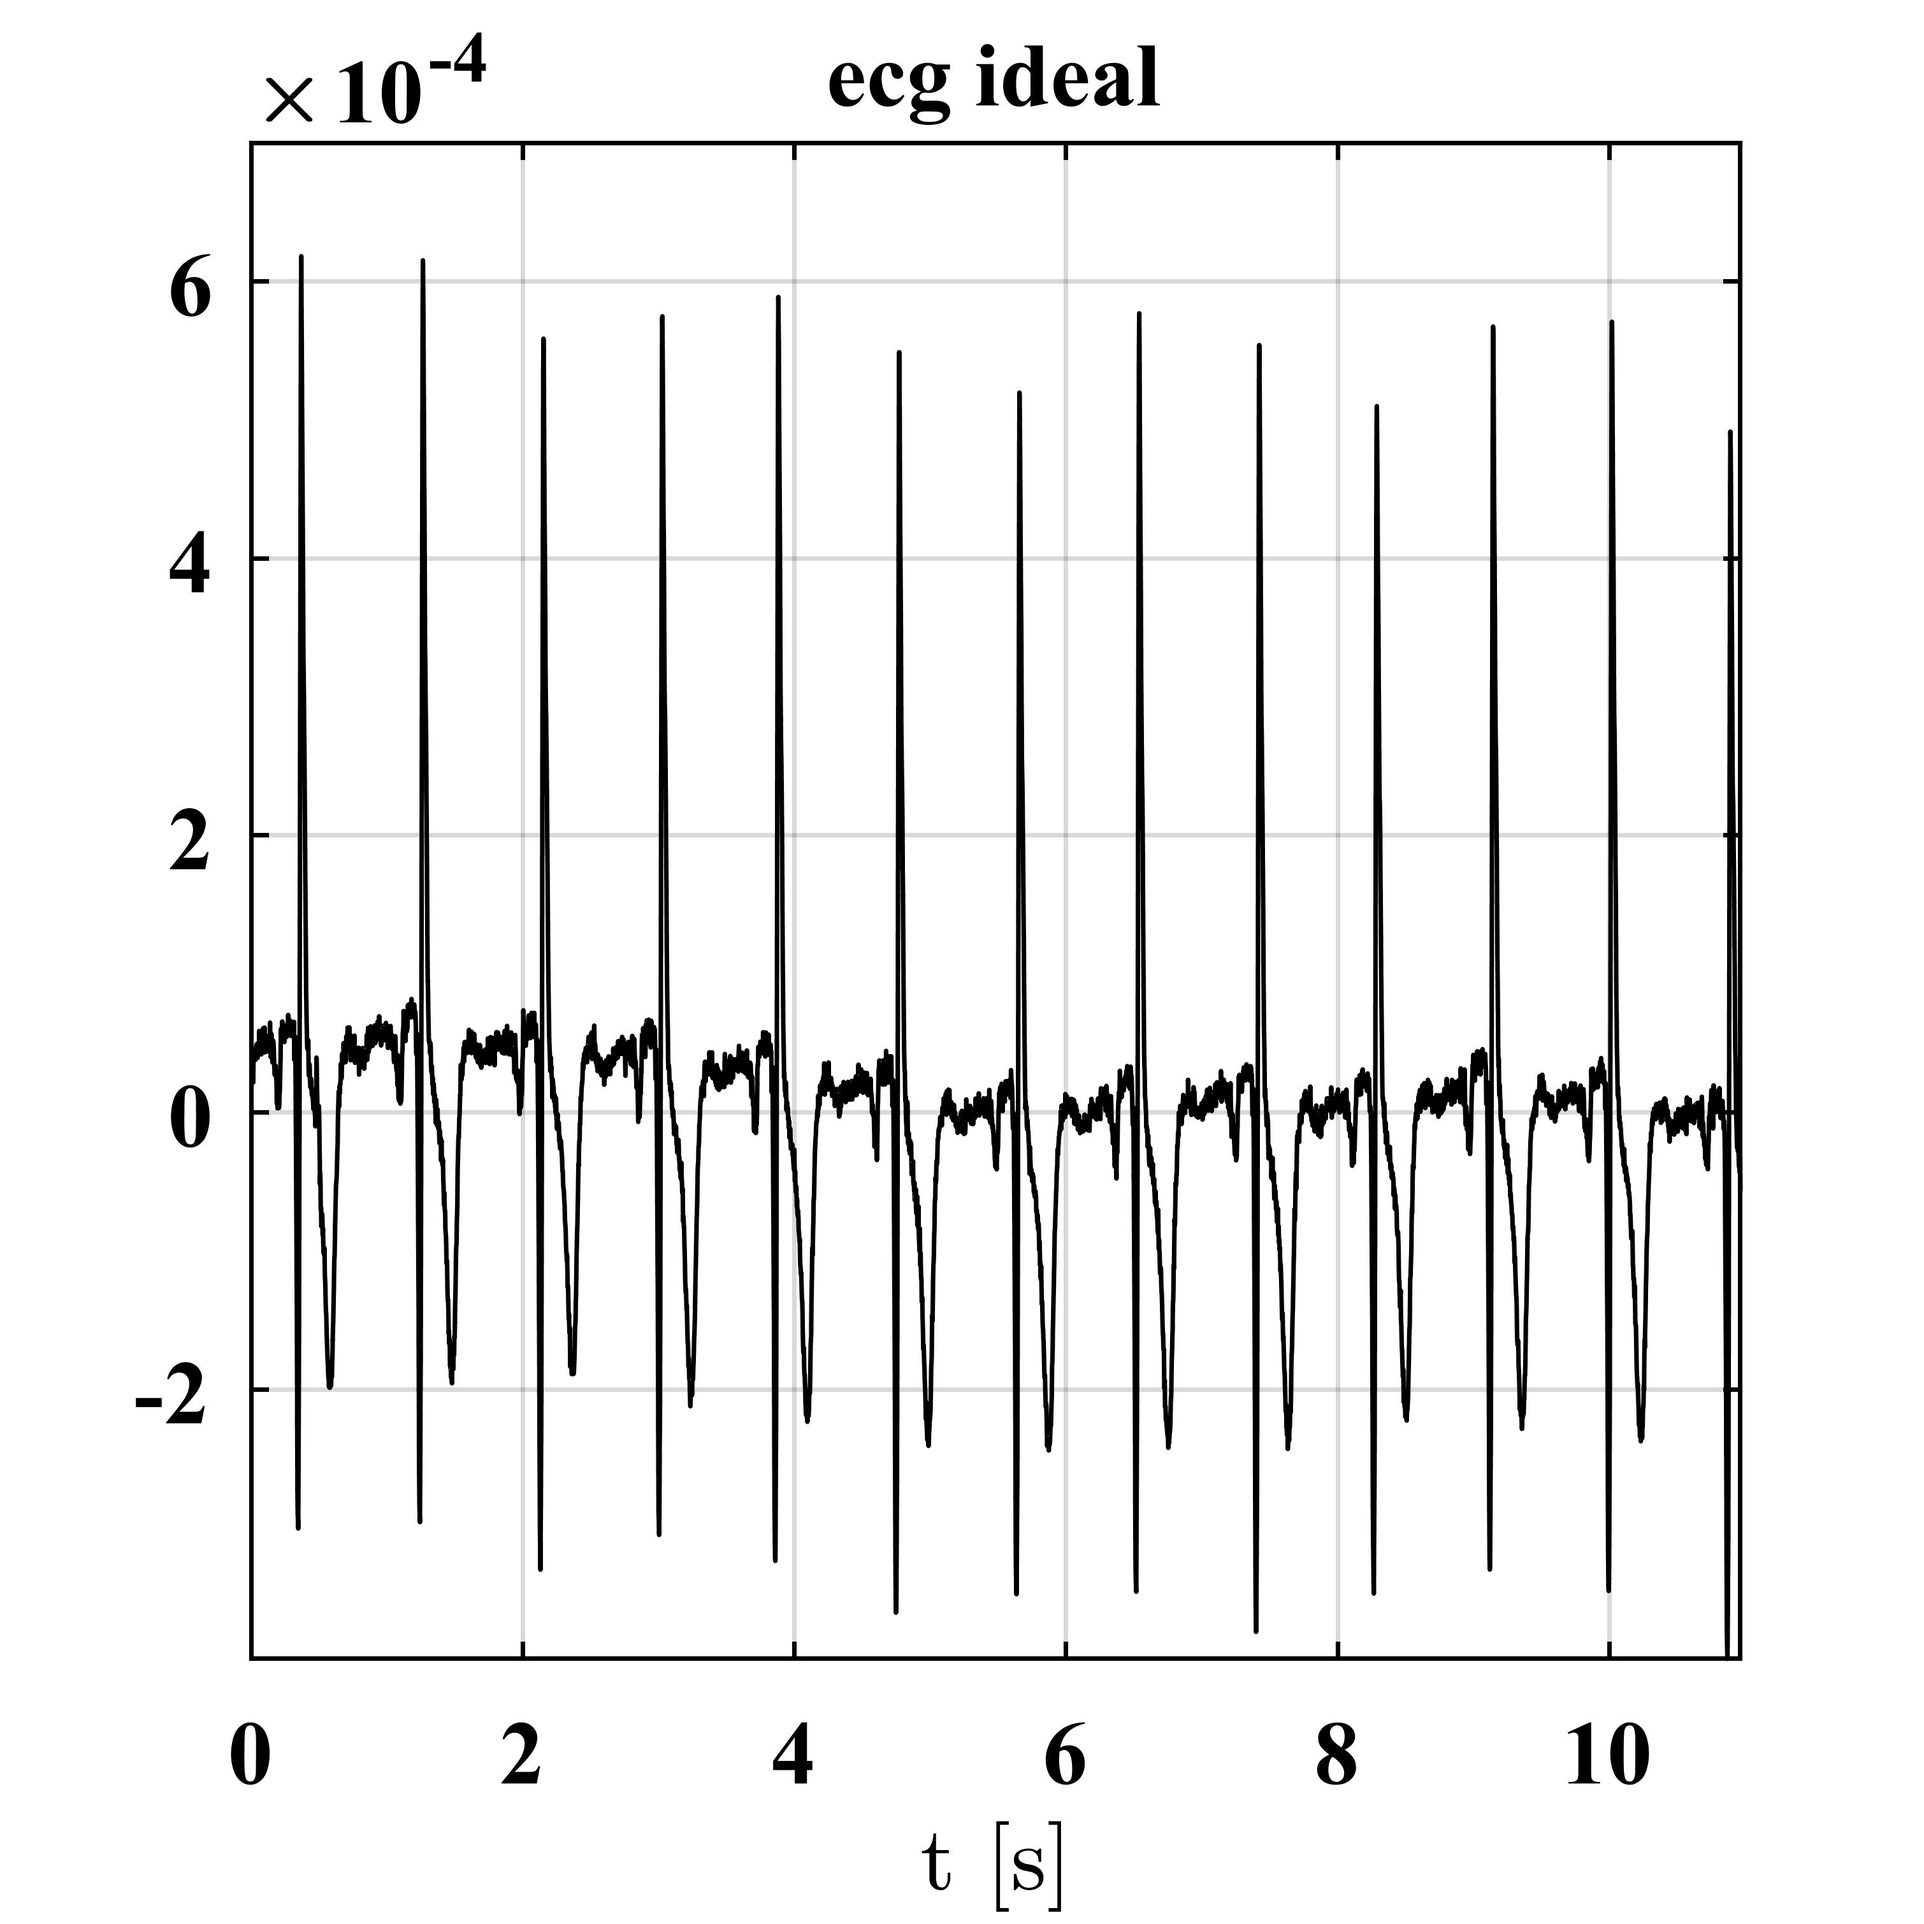
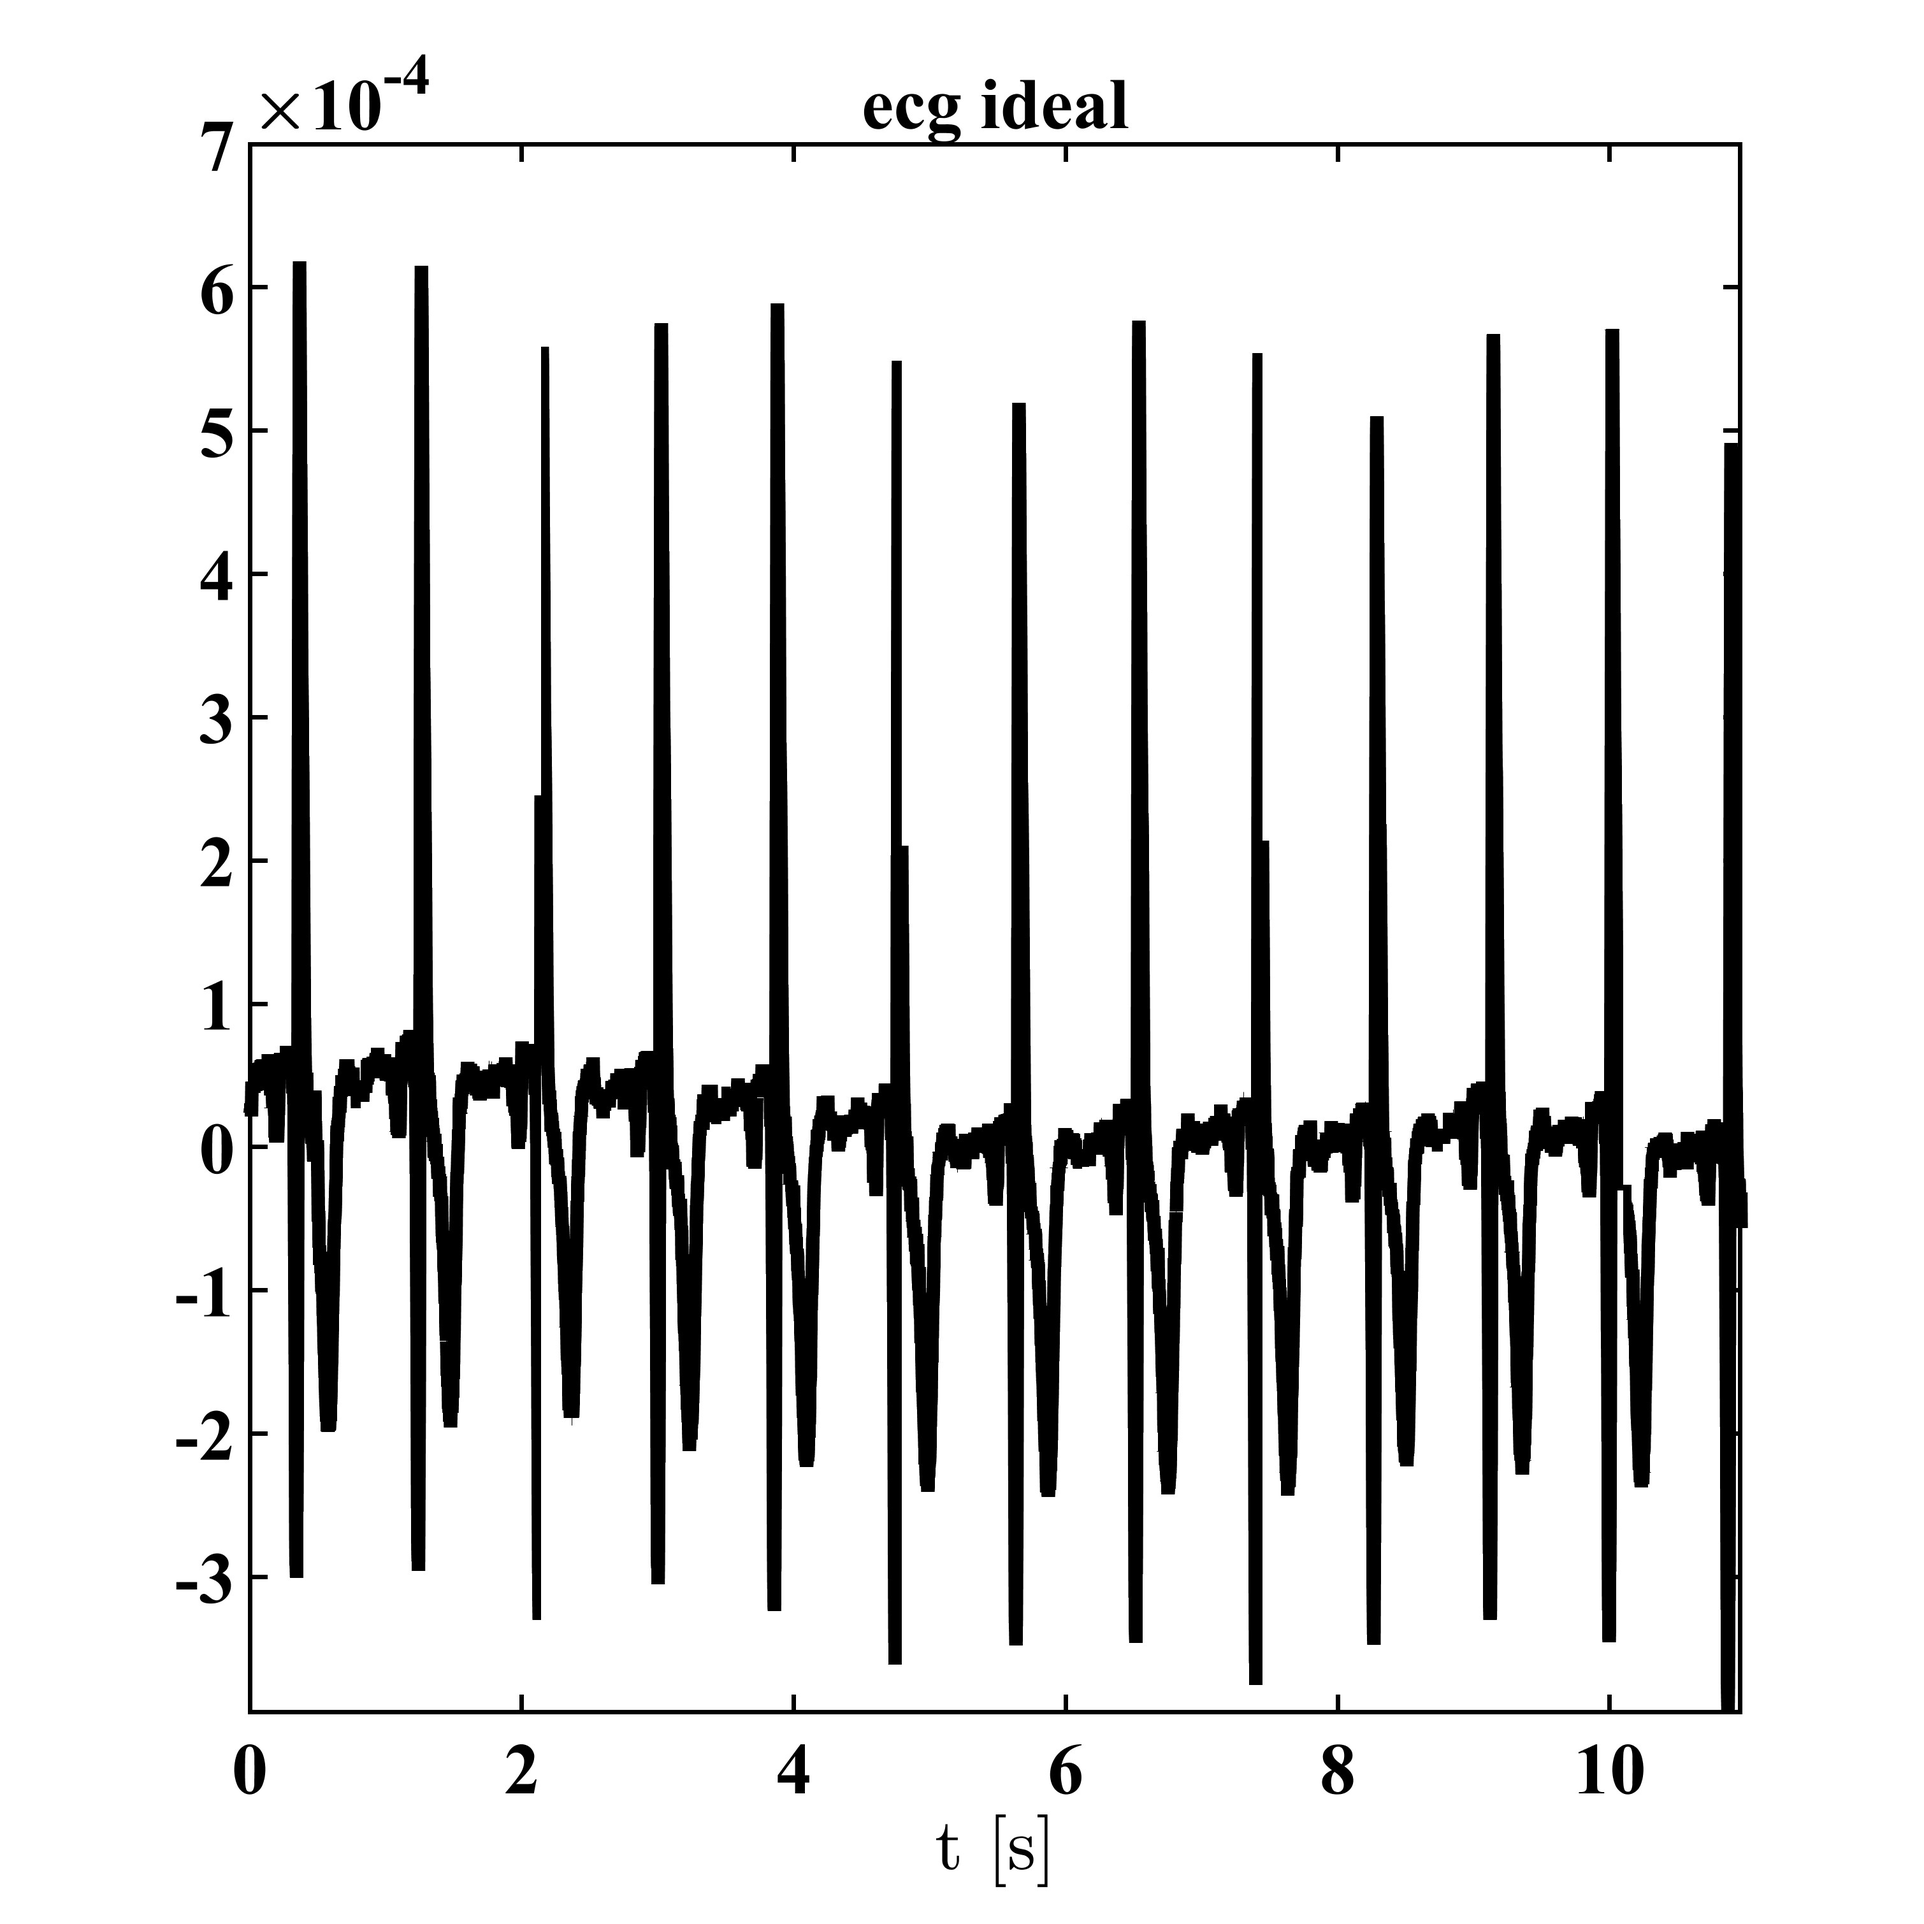
Cambios 3 de Agosto

diff --git a/pu2_ecg.m b/pu2_ecg.m
@@ -8,13 +8,11 @@ fs=500;
 t1=(0:length(ecg_limpia)-1)./500;
 plotCompleto([0 max(t1) min(ecg_limpia) 7e-4], 't [s]', '', 'ecg ideal', 20, 'r', 1.5, t1, ecg_limpia);
 [ECGz_s,f_li]=fft_kit(ecg_limpia,fs);	%ECGz_s = fftshift(fft(ECGz)), de ahora en mas adoptaremos el sunindice _s para refernirnos a _shift
-%stemCompleto([-fs/2 fs/2 abs(min(ECGz_s)) 0.2],'f [Hz]', '', '|ECG_l|', 20, 'b.-', 1, f_li, abs(ECGz_s));
 
 load('ecg_contaminada.mat');
 t2=((0:length(ecg_contaminada)-1)./fs);
 plotCompleto([0 max(t2) min(ecg_contaminada) 7.5e-4], 't [s]', '', 'ecg contaminado', 20, 'r', 1.5, t2, ecg_contaminada);
 [ECG_s, f_cont]=fft_kit(ecg_contaminada,fs);
-%stemCompleto([-fs/2 fs/2 abs(min(ECG_s)) 0.2],'f [Hz]', '', '|ECG_{cont}|', 20, 'b.-', 1, f_cont, abs(ECG_s));
 
 stemDoble([-fs/2 fs/2 abs(min(ECG_s)) 0.2],[-fs/2 fs/2 abs(min(ECG_s)) 0.2], 'f [Hz]', '', "ECG ideal", "ECG contaminado", 20, 'b.-', 1.5, f_li, abs(ECGz_s), f_cont, abs(ECG_s))
 
@@ -25,7 +23,7 @@ plotFiltros(LP, f_cont, fs, [-fs/2 fs/2 0 1.5], "Filtro LP 100Hz");
 
 ecg_fLP = filter(LP, ecg_contaminada);
 [ECG_fLP_s, ~] = fft_kit(ecg_fLP,fs);
-stemCompleto([-fs/2 fs/2 abs(min(ECG_fLP_s)) 0.2],'f [Hz]', '', '|ECG_{fPB}|', 20, 'b.-', 1, f_cont, abs(ECG_fLP_s));
+stemCompleto([-fs/2 fs/2 abs(min(ECG_fLP_s)) 0.2],'f [Hz]', '', '|ECG_{fLP}|', 20, 'b.-', 1, f_cont, abs(ECG_fLP_s));
 
 %plotCompleto([0 max(t2) min(ecg_contaminada) 7.5e-4], 't [s]', '', 'ecg contaminado', 20, 'r', 1.5, t2, ecg_contaminada);
 plotStem([0 max(t2) min(ecg_contaminada) 7.5e-4], [-fs/2 fs/2 abs(min(ECG_s)) 0.2], 't [s]', 'Amplitud', 'f [Hz]', 'Amplitud', "ECG filtrada", "Escpectro ECG filtrado", 20, 'b.-', 1.5, t2, ecg_fLP, f_cont, abs(ECG_fLP_s))

diff --git a/funciones/utilidades/plotStem.m b/funciones/utilidades/plotStem.m
@@ -10,7 +10,7 @@ function plotStem(lim_ejes1,lim_ejes2, eje_x1, eje_y1, eje_x2, eje_y2, titulo1, 
 
     subplot(2,1,1);
     plot(n1, x1, col, 'Linewidth', grosor);
-    axis(lim_ejes1); grid on; % L ??mites de los ejes. Grilla.
+    axis(lim_ejes1); grid off; % L ??mites de los ejes. Grilla.
     view(0, 90); % Sitúa la gráfica en el eje real
     xlabel(eje_x1,'Interpreter','Latex'); % Nombro el eje x.
     ylabel(eje_y1,'Interpreter','Latex'); % Nombro el eje x.
@@ -21,7 +21,7 @@ function plotStem(lim_ejes1,lim_ejes2, eje_x1, eje_y1, eje_x2, eje_y2, titulo1, 
     
     subplot(2,1,2);
     stem(n2, x2, col, 'Linewidth', grosor);
-    axis(lim_ejes2); grid on; % L ??mites de los ejes. Grilla.
+    axis(lim_ejes2); grid off; % L ??mites de los ejes. Grilla.
     view(0, 90); % Sitúa la gráfica en el eje real
     xlabel(eje_x2,'Interpreter','Latex'); % Nombro el eje x.
     ylabel(eje_y2,'Interpreter','Latex'); % Nombro el eje x.

diff --git a/funciones/utilidades/plotDoble.m b/funciones/utilidades/plotDoble.m
@@ -10,7 +10,7 @@ function plotDoble(lim_ejes1,lim_ejes2, eje_x, eje_y, titulo1, titulo2, tam_letr
 
     subplot(2,1,1);
     plot(n1, x1, col, 'Linewidth', grosor);
-    axis(lim_ejes1); grid on; % L ??mites de los ejes. Grilla.
+    axis(lim_ejes1); grid off; % L ??mites de los ejes. Grilla.
     view(0, 90); % Sitúa la gráfica en el eje real
     xlabel(eje_x,'Interpreter','Latex'); % Nombro el eje x.
     ylabel(eje_y,'Interpreter','Latex'); % Nombro el eje x.
@@ -21,7 +21,7 @@ function plotDoble(lim_ejes1,lim_ejes2, eje_x, eje_y, titulo1, titulo2, tam_letr
     
     subplot(2,1,2);
     plot(n2, x2, col, 'Linewidth', grosor);
-    axis(lim_ejes2); grid on; % L ??mites de los ejes. Grilla.
+    axis(lim_ejes2); grid off; % L ??mites de los ejes. Grilla.
     view(0, 90); % Sitúa la gráfica en el eje real
     xlabel(eje_x,'Interpreter','Latex'); % Nombro el eje x.
     ylabel(eje_y,'Interpreter','Latex'); % Nombro el eje x.

diff --git a/funciones/utilidades/stemDoble.m b/funciones/utilidades/stemDoble.m
@@ -10,7 +10,7 @@ function stemDoble(lim_ejes1,lim_ejes2, eje_x, eje_y, titulo1, titulo2, tam_letr
 
     subplot(2,1,1);
     stem(n1, x1, col, 'Linewidth', grosor);
-    axis(lim_ejes1); grid on; % L ??mites de los ejes. Grilla.
+    axis(lim_ejes1); grid off; % L ??mites de los ejes. Grilla.
     view(0, 90); % Sitúa la gráfica en el eje real
     xlabel(eje_x,'Interpreter','Latex'); % Nombro el eje x.
     ylabel(eje_y,'Interpreter','Latex'); % Nombro el eje x.
@@ -21,7 +21,7 @@ function stemDoble(lim_ejes1,lim_ejes2, eje_x, eje_y, titulo1, titulo2, tam_letr
     
     subplot(2,1,2);
     stem(n2, x2, col, 'Linewidth', grosor);
-    axis(lim_ejes2); grid on; % L ??mites de los ejes. Grilla.
+    axis(lim_ejes2); grid off; % L ??mites de los ejes. Grilla.
     view(0, 90); % Sitúa la gráfica en el eje real
     xlabel(eje_x,'Interpreter','Latex'); % Nombro el eje x.
     ylabel(eje_y,'Interpreter','Latex'); % Nombro el eje x.
